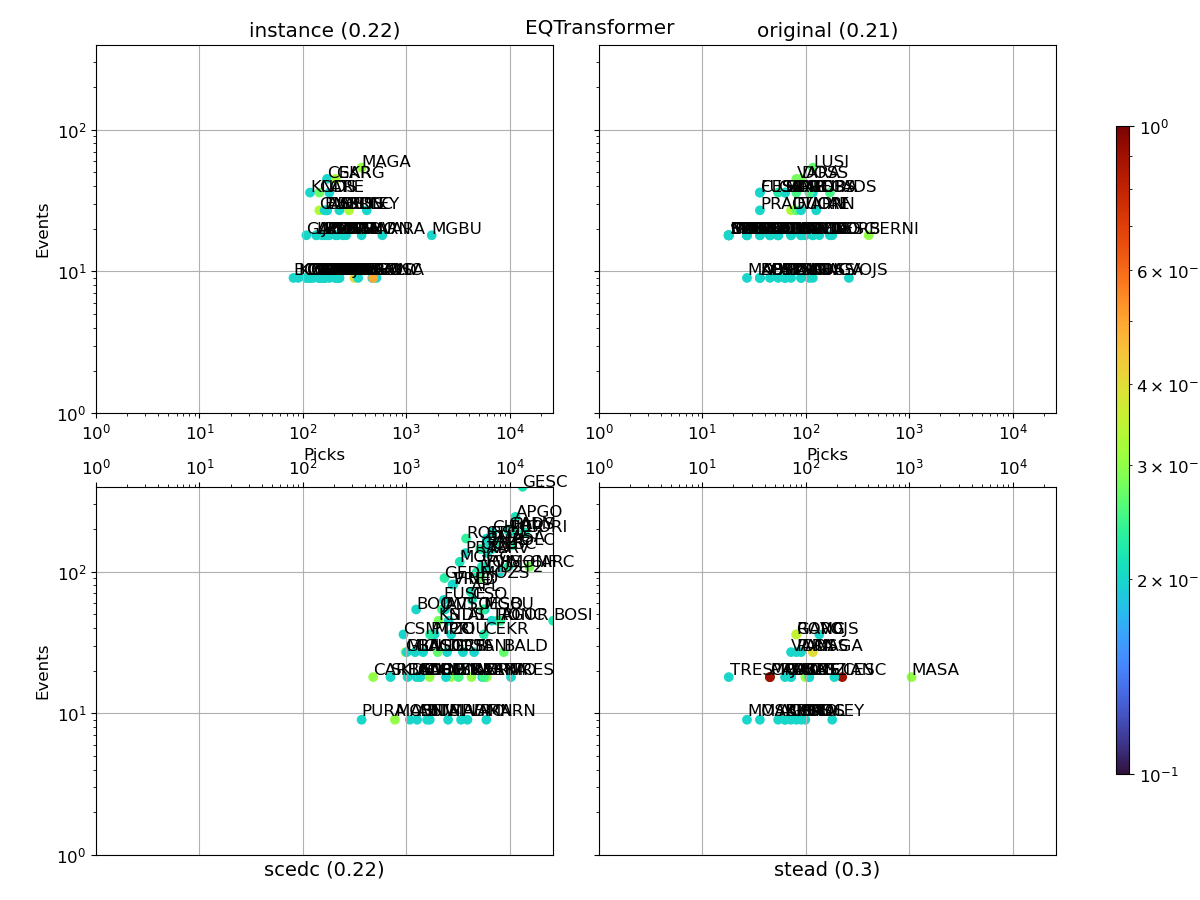
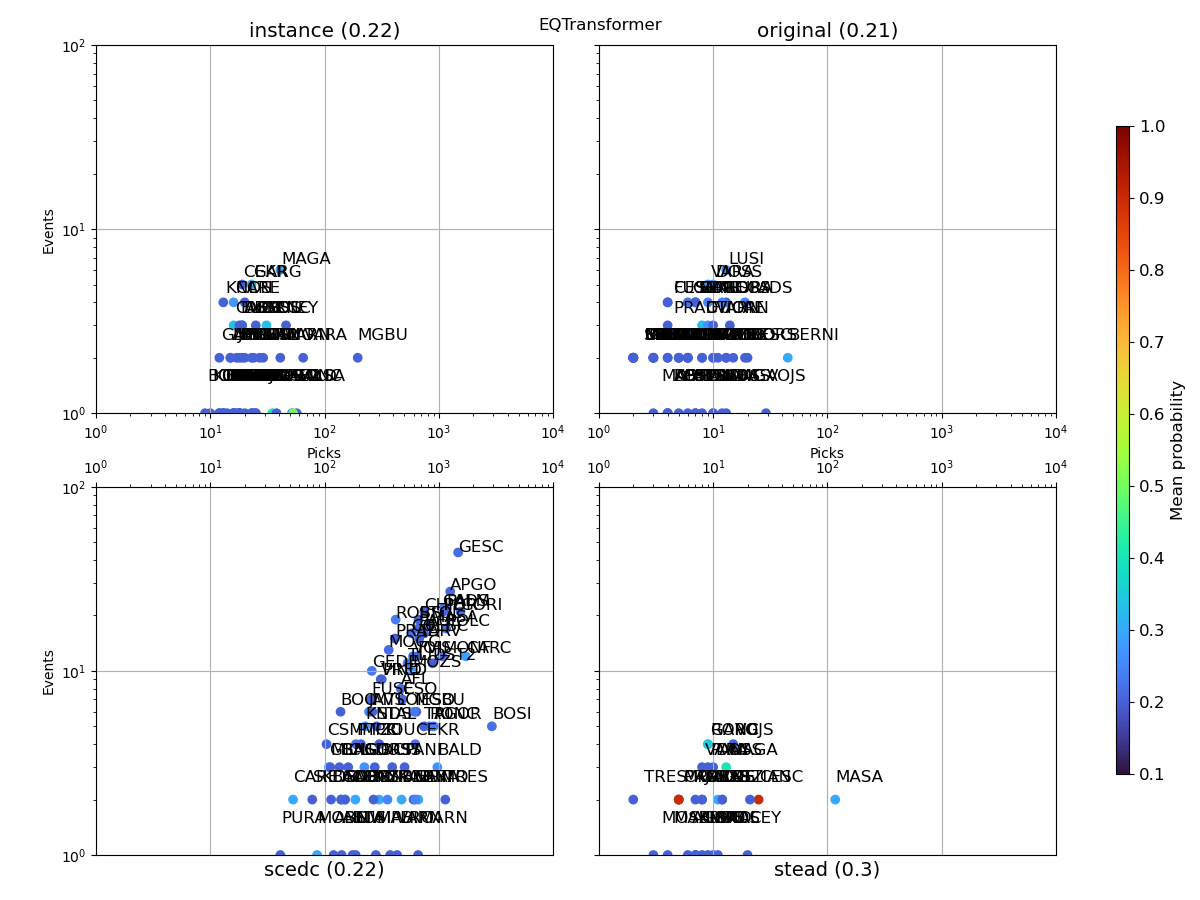
Analyzer

diff --git a/src/analyzer.py b/src/analyzer.py
@@ -16,6 +16,7 @@ import pandas as pd
 import matplotlib.pyplot as plt
 import matplotlib.dates as mdates
 from datetime import timedelta as td
+from obspy.geodetics import gps2dist_azimuth
 from obspy.core.utcdatetime import UTCDateTime
 from sklearn.metrics import ConfusionMatrixDisplay as ConfMtxDisp
 
@@ -46,16 +47,26 @@ def plot_cluster(PICK : pd.DataFrame, GMMA : pd.DataFrame,
     img directory.
   """
   if args.verbose: print("Plotting the Cluster")
-  m_p, m_r = 0, 0
+  max_p, max_r = 0, 0
   PICK = PICK[(PICK[MODEL_STR].isin(args.models)) &
               (PICK[WEIGHT_STR].isin(args.weights))].reset_index(drop=True)
+  min_p = len(PICK.index)
   groups = [MODEL_STR, WEIGHT_STR, STATION_STR]
-  for _, dataframe in PICK.groupby(groups): m_p = max(m_p, dataframe.size)
+  for _, dataframe in PICK.groupby(groups):
+    max_p = max(max_p, len(dataframe.index))
+    min_p = min(min_p, len(dataframe.index))
+  max_p = np.power(10, int(np.log10(max_p)) + 1)
+  min_p = np.power(10, int(np.log10(min_p)))
   GMMA = GMMA[(GMMA[MODEL_STR].isin(args.models)) &
               (GMMA[WEIGHT_STR].isin(args.weights)) &
               (GMMA[THRESHOLD_STR] >= min(args.pwave,
                                           args.swave))].reset_index(drop=True)
-  for _, dataframe in GMMA.groupby(groups): m_r = max(m_r, dataframe.size)
+  min_r = len(GMMA.index)
+  for _, dataframe in GMMA.groupby(groups):
+    max_r = max(max_r, len(dataframe.index))
+    min_r = min(min_r, len(dataframe.index))
+  max_r = np.power(10, int(np.log10(max_r)) + 1)
+  min_r = np.power(10, int(np.log10(min_r)))
   Ws : int = len(args.weights)
   x : int = int(np.sqrt(Ws))
   y : int = Ws // x + int((Ws % x) != 0)
@@ -73,19 +84,19 @@ def plot_cluster(PICK : pd.DataFrame, GMMA : pd.DataFrame,
       for station, P in dataframe_w.groupby(STATION_STR):
         R = GMMA[(GMMA[MODEL_STR] == model) & (GMMA[WEIGHT_STR] == weight) &
                  (GMMA[STATION_STR] == station)].reset_index(drop=True)
-        p, r = P.size, R.size
+        p, r = len(P.index), len(R.index)
         if p == 0 or r == 0:
           print(f"({model},{weight},{station}) was not plotted")
           continue
-        X.append(P.size)
-        Y.append(R.size)
+        X.append(len(P.index))
+        Y.append(len(R.index))
         Z.append(station)
         C.append(R[THRESHOLD_STR].to_numpy().mean())
-      disp = ax.scatter(X, Y, c=C, cmap="turbo", norm="log", clim=(0.1, 1))
+      disp = ax.scatter(X, Y, c=C, cmap="turbo", clim=(0.1, 1))
       for i, txt in enumerate(Z): ax.annotate(txt, (X[i] + .5, Y[i] + .5))
       ax.set(title="{} ({:0.2})".format(weight, np.asarray(C).mean()),
-             xlabel="Picks", xscale="log", xlim=(1, m_p), ylabel="Events",
-             ylim=(1, m_r), yscale="log")
+             xlabel="Picks", xscale="log", xlim=(min_p, max_p),
+             ylabel="Events", yscale="log", ylim=(min_r, max_r))
       ax.grid()
     axs[0].set()
     axs[1].set(ylabel=None, yticklabels=[])
@@ -234,7 +245,6 @@ def diff_time(T : pd.Series, P : pd.Series) -> float:
 def dist_default(T : pd.Series, P : pd.Series) -> float:
   return (99. * dist_balanced(T, P) + P[PROBABILITY_STR]) / 100.
 
-
 class myBPGraph():
   def __init__(self, T : pd.DataFrame, P : pd.DataFrame, weight):
     self.W : function = weight
@@ -331,7 +341,7 @@ class myBPGraph():
       P = nodesP.iloc[x[0]]
       CFN_MTX.loc[T[PHASE_STR], P[PHASE_STR]] += 1
       if T[PHASE_STR] == P[PHASE_STR]:
-        TP.add(((T[ID_STR], P[ID_STR]),
+        TP.add(((T[ID_STR], str(P[ID_STR])),
                 (str(T[TIMESTAMP_STR]), str(P[TIMESTAMP_STR])),
                 (T[PROBABILITY_STR], P[PROBABILITY_STR]), T[PHASE_STR],
                 P[NETWORK_STR], T[STATION_STR]))
@@ -442,7 +452,7 @@ def stat_test(TRUE : pd.DataFrame, PRED : pd.DataFrame,
     fig.subplots_adjust(left=0.08, right=1.08, top=.95, bottom=0.05,
                         wspace=0.1, hspace=0.2)
     fig.colorbar(disp.im_, ax=axs, orientation='vertical',
-                label="Number of Picks", aspect=50, shrink=0.8)
+                 label="Number of Picks", aspect=50, shrink=0.8)
     disp.im_.set_clim(1, N_seconds)
     IMG_FILE = \
       Path(IMG_PATH, ("D_" if args.denoiser else EMPTY_STR) + \
@@ -453,27 +463,36 @@ def stat_test(TRUE : pd.DataFrame, PRED : pd.DataFrame,
     plt.close()
   # True Positives
   TP = pd.DataFrame(TP, columns=HEADER_PRED).sort_values(SORT_HIERARCHY_PRED)
-  if args.verbose:
-    TP.to_csv(Path(DATA_PATH, ("D_" if args.denoiser else EMPTY_STR) + \
-                   UNDERSCORE_STR.join([method, TP_STR]) + CSV_EXT),
-              index=False)
+  # TODO: Implement the threshold for the True Positives
+  for (m, w), df in TP.groupby([MODEL_STR, WEIGHT_STR]):
+    ids = {id[0] : id[1] for id in df[ID_STR].to_list()}
+    for k, v in ids.items():
+      TP.loc[(TP[MODEL_STR] == m) & (TP[WEIGHT_STR] == w) &
+             (TP[ID_STR] == (k, v)), [THRESHOLD_STR, ID_STR]] = [
+        float("{:0.1}".format(min([
+          x[1] for x in df.loc[df[ID_STR] == (k, v),
+                               PROBABILITY_STR].tolist()]))),
+        tuple([k, float(v) if v == "nan" else int(v)])]
+  if args.verbose: TP.to_csv(Path(
+    DATA_PATH, ("D_" if args.denoiser else EMPTY_STR) + \
+    UNDERSCORE_STR.join([method, TP_STR]) + CSV_EXT), index=False)
   # False Negatives
   FN = pd.DataFrame(FN, columns=HEADER_PRED).sort_values(SORT_HIERARCHY_PRED)
   FN_FILE = Path(DATA_PATH, ("D_" if args.denoiser else EMPTY_STR) + \
                  UNDERSCORE_STR.join([method, FN_STR]) + CSV_EXT)
-  FN.to_csv(FN_FILE, index=False)
+  if args.verbose: FN.to_csv(FN_FILE, index=False)
   # False Positives
   FP = pd.DataFrame(FP, columns=HEADER_PRED).sort_values(SORT_HIERARCHY_PRED)
   FP_FILE = Path(DATA_PATH, ("D_" if args.denoiser else EMPTY_STR) + \
                  UNDERSCORE_STR.join([method, FP_STR]) + CSV_EXT)
-  FP.to_csv(FP_FILE, index=False)
+  if args.verbose: FP.to_csv(FP_FILE, index=False)
   # False Negative Pie plot
-  for (model, weight), dtfrm in FN.groupby([MODEL_STR, WEIGHT_STR]):
+  for (model, weight), df in FN.groupby([MODEL_STR, WEIGHT_STR]):
     fig, _ax = plt.subplots(1, 2, figsize=(10, 5))
     plt.suptitle(SPACE_STR.join([model, weight]), fontsize=16)
     for ax, phase in zip(_ax, [PWAVE, SWAVE]):
       ax.set_title(phase)
-      dtfrm[dtfrm[PHASE_STR] == phase][PROBABILITY_STR].value_counts()\
+      df[df[PHASE_STR] == phase][PROBABILITY_STR].value_counts()\
         .plot(kind='pie', ax=ax, autopct='%1.1f%%')
     IMG_FILE = \
       Path(IMG_PATH, ("D_" if args.denoiser else EMPTY_STR) + \
@@ -726,6 +745,14 @@ def time_displacement(DATA : pd.DataFrame, args : argparse.Namespace,
     plt.savefig(IMG_FILE)
     plt.close()
 
+def dist_displacement(TRUE : pd.DataFrame, PRED : pd.DataFrame,
+                      args : argparse.Namespace) -> pd.DataFrame:
+  print("Computing the Displacement")
+  for (model, weight, id), df in PRED.groupby([MODEL_STR, WEIGHT_STR, ID_STR]):
+    print(model, weight, id)
+  #epi_dist, _, _ = gps2dist_azimuth(, float(lon), float(stla), float(stlo))
+  #epi_dist = float(format((epi_dist / 1000), ".4f"))
+
 def main(args : argparse.Namespace):
   global DATA_PATH, DATES
   DATA_PATH = args.directory.parent
@@ -754,8 +781,8 @@ def main(args : argparse.Namespace):
   if len(args.file) > 1: raise NotImplementedError("Multiple event files")
   TRUE_S, TRUE_D = event_parser(args.file[0], args)
   TRUE_D = TRUE_D[TRUE_D[STATION_STR].isin(PICK[STATION_STR].unique())]
-  plot_data(copy.deepcopy(TRUE_D), copy.deepcopy(PICK), args)
-  plot_data(copy.deepcopy(TRUE_D), copy.deepcopy(PICK), args, phase=SWAVE)
+  #plot_data(copy.deepcopy(TRUE_D), copy.deepcopy(PICK), args)
+  #plot_data(copy.deepcopy(TRUE_D), copy.deepcopy(PICK), args, phase=SWAVE)
   TP = stat_test(copy.deepcopy(TRUE_D), copy.deepcopy(PICK), args, PICKER_STR)
   del PICK
   time_displacement(copy.deepcopy(TP), args)
@@ -771,5 +798,20 @@ def main(args : argparse.Namespace):
     TP = pd.concat([TP, stat_test(copy.deepcopy(TRUE_D), copy.deepcopy(REC),
                                   args, GMMA_STR)])
   time_displacement(copy.deepcopy(TP), args, method=GMMA_STR)
+  AI = dict()
+  for (m, w), df in TP.groupby([MODEL_STR, WEIGHT_STR]):
+    AI[(m, w)] = {tp : id for (tp, id) in df[ID_STR].unique().tolist()}
+  SRC_ : pd.DataFrame = pd.DataFrame(columns=HEADER_SRC)
+  SRC_PATH = Path(DATA_PATH, ("D_" if args.denoiser else EMPTY_STR) + \
+                  AST_STR + CSV_EXT)
+  if not SRC_PATH.exists(): print(f"File {SRC_PATH} not found")
+  else:
+    if args.verbose: print(f"Loading {SRC_PATH}...")
+    SRC_ = ini.data_loader(SRC_PATH)
+    SRC_[TIMESTAMP_STR] = SRC_[TIMESTAMP_STR].apply(lambda x: UTCDateTime(x))
+    for (m, w), ids in AI.items():
+      for tp, id in ids.items():
+        src = SRC_.loc[(SRC_[ID_STR] == id) & (SRC_[MODEL_STR] == m) &
+                       (SRC_[WEIGHT_STR] == w)]
 
 if __name__ == "__main__": main(ini.parse_arguments())

diff --git a/src/associator.py b/src/associator.py
@@ -220,6 +220,15 @@ def associate_events(PRED : pd.DataFrame, config : AssociateConfig,
                  if not SOURCE.empty else SRC
       DETECT = pd.concat([DETECT, PKS], ignore_index=True) \
                  if not DETECT.empty else PKS
+      if PKS.empty: continue
+      for (network, station), dtfrm in PKS.groupby([NETWORK_STR, STATION_STR]):
+        sdate = start.strftime("%y%m%d")
+        FILEPATH = Path(DATA_PATH, AST_STR, sdate, network, station,
+                        ("D" if args.denoiser else EMPTY_STR) +
+                        UNDERSCORE_STR.join([sdate, network, station, model,
+                                             weight]) + CSV_EXT)
+        FILEPATH.parent.mkdir(parents=True, exist_ok=True)
+        dtfrm.to_csv(FILEPATH, index=False)
   FILEPATH = Path(DATA_PATH, ("D" if args.denoiser else EMPTY_STR) +
                   AST_STR + CSV_EXT)
   SOURCE.sort_values(SORT_HIERARCHY_PRED, inplace=True)
@@ -228,18 +237,6 @@ def associate_events(PRED : pd.DataFrame, config : AssociateConfig,
                   ASCT_STR + CSV_EXT)
   DETECT.sort_values(SORT_HIERARCHY_PRED, inplace=True)
   DETECT.to_csv(FILEPATH, index=False)
-  for (model, weight, network, station), dtfrm in \
-    DETECT.groupby([MODEL_STR, WEIGHT_STR, NETWORK_STR, STATION_STR]):
-    for start, end in zip(DATES[:-1], DATES[1:]):
-      df = dtfrm[dtfrm[TIMESTAMP_STR].between(start, end, inclusive='left')]
-      if df.empty: continue
-      start = start.strftime("%y%m%d")
-      FILEPATH = Path(DATA_PATH, AST_STR, start, network, station,
-                      ("D_" if args.denoiser else EMPTY_STR) +
-                      UNDERSCORE_STR.join([start, network, station, model,
-                                           weight]) + CSV_EXT)
-      FILEPATH.parent.mkdir(parents=True, exist_ok=True)
-      df.to_csv(FILEPATH, index=False)
   return SOURCE, DETECT
 
 def set_up(args : argparse.Namespace) -> AssociateConfig:

diff --git a/inc/initializer.py b/inc/initializer.py
@@ -385,6 +385,7 @@ def classified_loader(args : argparse.Namespace) -> pd.DataFrame:
       for leg in plt.legend().get_texts():
         leg.set_text(rf"$\geq$ {leg.get_text()}")
       plt.title(SPACE_STR.join([model, weight, date]))
+      plt.ylabel("Number of Picks")
       plt.yscale('log')
       plt.ylim(0.9)
       plt.tight_layout()
@@ -441,6 +442,7 @@ def associated_loader(args : argparse.Namespace) -> pd.DataFrame:
       HIST.plot(kind='bar', stacked=True, figsize=(20, 7))
       for leg in plt.legend().get_texts():
         leg.set_text(rf"$\geq$ {leg.get_text()}")
+      plt.ylabel("Number of Events")
       plt.title(SPACE_STR.join([model, weight, date]))
       plt.tight_layout()
       plt.savefig(IMG_FILE)

diff --git a/inc/constants.py b/inc/constants.py
@@ -29,7 +29,8 @@ H71_OFFSET = {
   1 : td(seconds=0.04),
   2 : td(seconds=0.2),
   3 : td(seconds=1),
-  4 : td(seconds=5)
+  4 : td(seconds=5),
+  5 : td(seconds=25)
 }
 ASSOCIATE_OFFSET = td(seconds=1)
 
